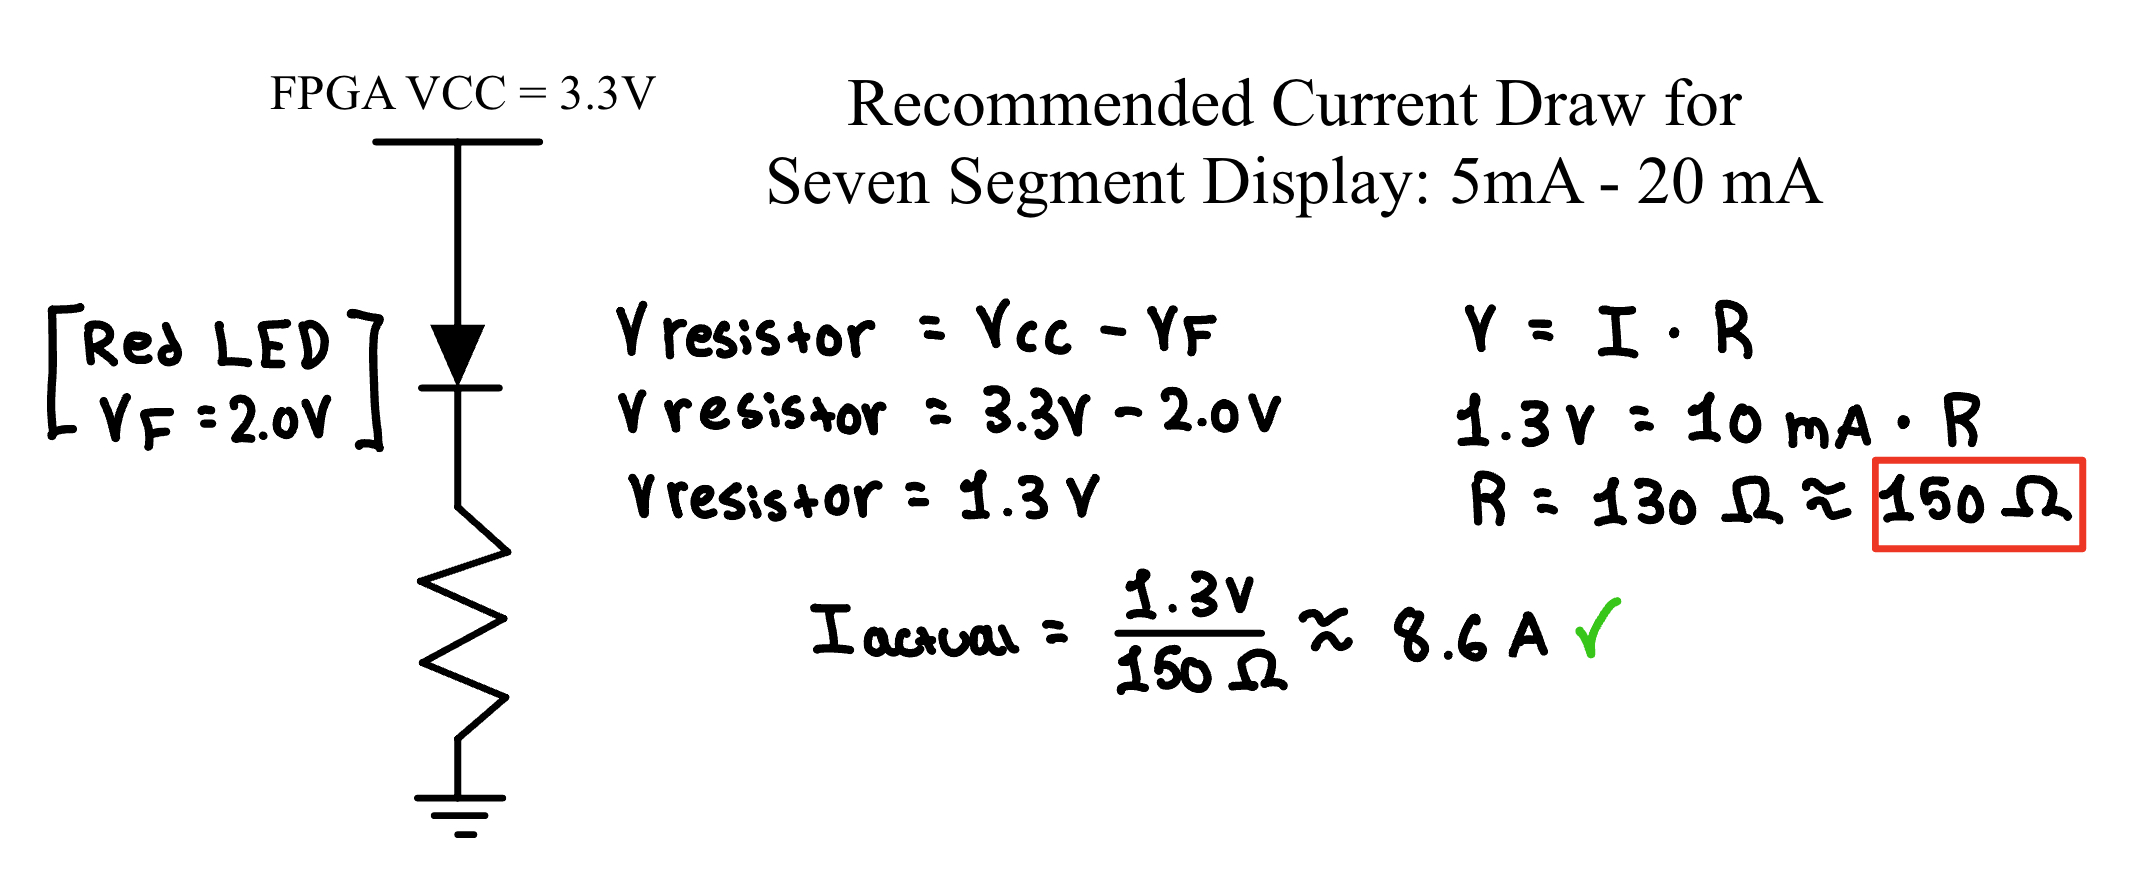
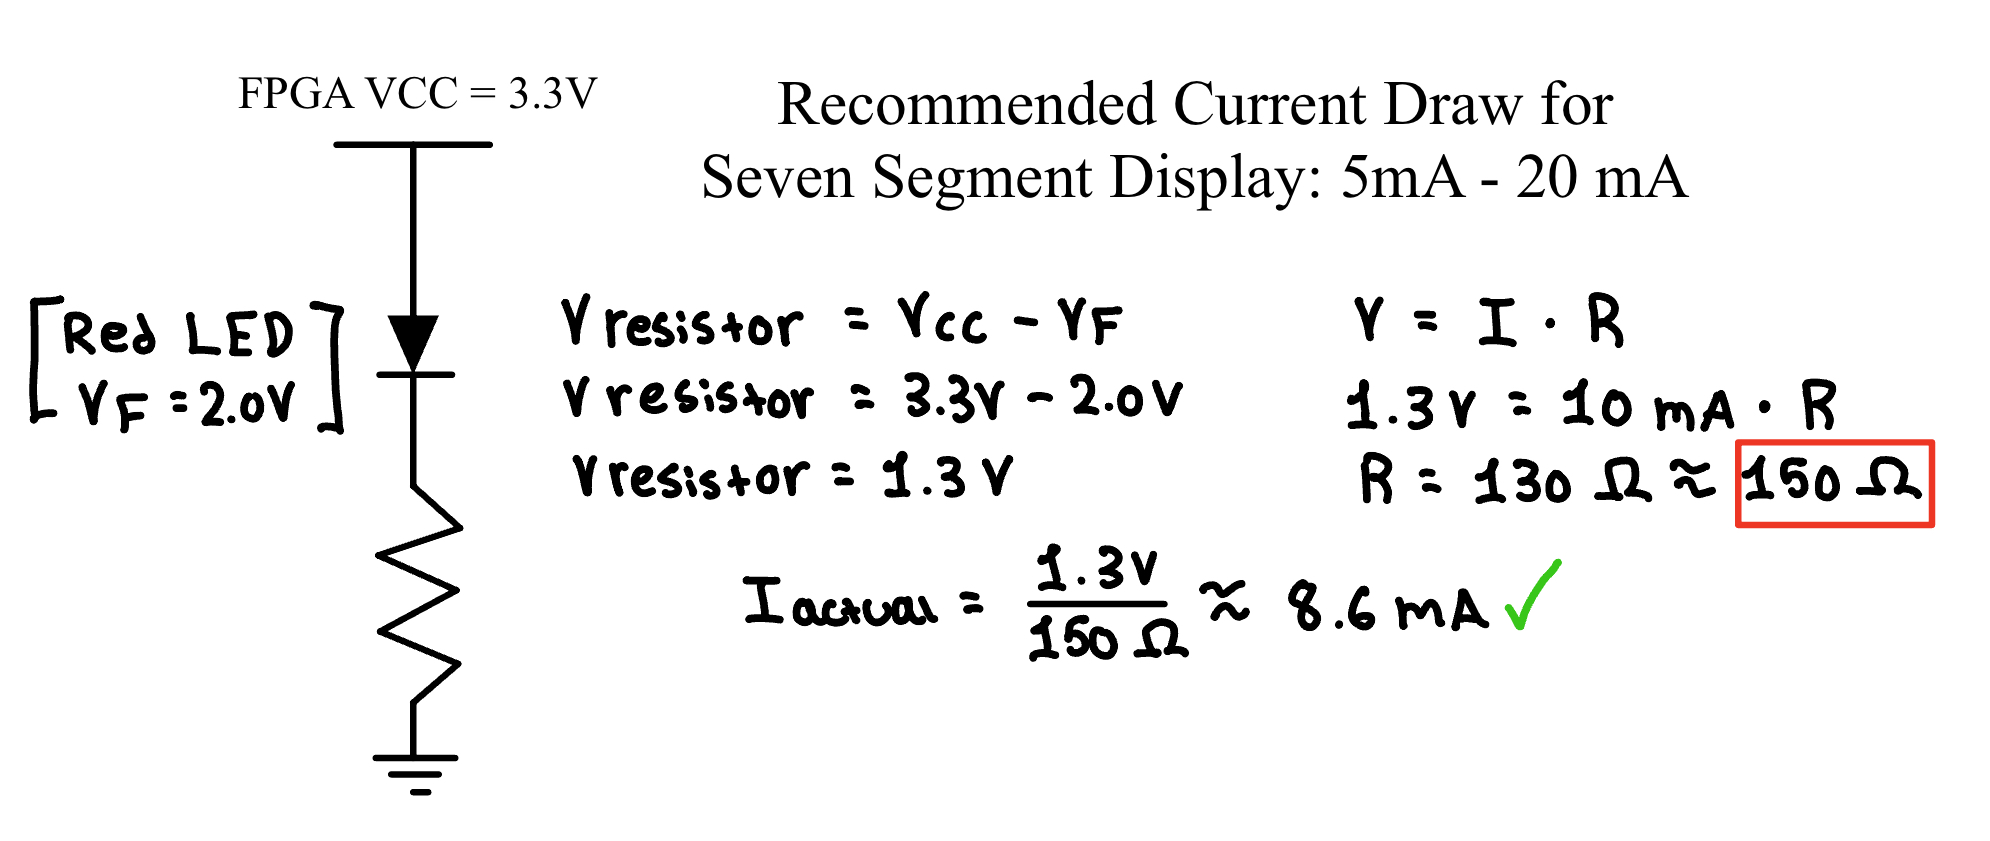
Built site for gh-pages

diff --git a/LAB1.html b/LAB1.html
@@ -153,7 +153,7 @@ ul.task-list li input[type="checkbox"] {
 <header id="title-block-header" class="quarto-title-block default">
 <div class="quarto-title">
 <h1 class="title">Lab 1: FPGA &amp; MCU Setup &amp; Testing</h1>
-<p class="subtitle lead">Ivan Jimenez Pineda | ijimenezpineda@g.hmc.edu | September 9, 2026</p>
+<p class="subtitle lead">Ivan Jimenez Pineda | ijimenezpineda@g.hmc.edu | September 14, 2026</p>
 </div>
 
 
@@ -292,7 +292,7 @@ ul.task-list li input[type="checkbox"] {
 <section id="led-implementation-clock-divider" class="level3">
 <h3 class="anchored" data-anchor-id="led-implementation-clock-divider">LED Implementation &amp; Clock Divider</h3>
 <p>By inspection of the truth tables, <code>led[0]</code> is driven by the XOR of inputs <code>s[0]</code> and <code>s[1]</code>, while <code>led[1]</code> is driven by the AND of inputs <code>s[2]</code> and <code>s[3]</code>. These were implemented using <code>assign</code> statements in the top module.</p>
-<p>To generate a blinking frequency of 2.4 Hz for <code>led[2]</code>, a sequential counter module was designed. The 48 MHz on-board HSOSC was first divided in half using the <code>CLKHF_DIV(2'b01)</code> parameter, producing a 24 MHz clock. A blink rate of 2.4 Hz requires the LED to complete a full ON-OFF cycle 2.4 times per second, meaning the signal must toggle its state 4.8 times per second. By dividing 24,000,000 Hz by 4.8, the we must toggle 5,000,000 clock cycles. A zero-indexed counter was implemented to trigger a toggle and reset upon reaching a max count of <code>4999999</code>.</p>
+<p>To generate a blinking frequency of 2.4 Hz for <code>led[2]</code>, a sequential counter module was designed. The 48 MHz on-board HSOSC was first divided in half using the <code>CLKHF_DIV(2'b01)</code> parameter, producing a 24 MHz clock. A blink rate of 2.4 Hz requires the LED to complete a full ON-OFF cycle 2.4 times per second, meaning the signal must toggle its state 4.8 times per second. By dividing 24,000,000 Hz by 4.8, we must toggle 5,000,000 clock cycles. A zero-indexed counter was implemented to trigger a toggle and reset upon reaching a max count of <code>4999999</code>.</p>
 </section>
 <section id="segment-display-implementation" class="level3">
 <h3 class="anchored" data-anchor-id="segment-display-implementation">7-Segment Display Implementation</h3>
@@ -303,22 +303,23 @@ ul.task-list li input[type="checkbox"] {
 <hr>
 </section>
 </section>
-<section id="results-discussion" class="level2">
-<h2 class="anchored" data-anchor-id="results-discussion">Results &amp; Discussion</h2>
+<section id="results" class="level2">
+<h2 class="anchored" data-anchor-id="results">Results</h2>
 <p>The design successfully accomplished all tasks. To verify the logic prior to programming the hardware, testbenches were written for every module and simulated in Questa Sim. The combinational testbench verified all 16 states of the 7-segment display, the sequential testbench confirmed the counter’s active-low reset and enable functions, and the testbench verified the integration of the modules. <em>Figure 5</em> confirms that the outputs perfectly matched expectations.</p>
-<p><img src="images/wavesim.jpg" class="img-fluid" alt="Questa Sim waveform confirming LED and active-low 7-segment logic."> <em>Figure 5: Questa Sim waveform confirming LED and active-low 7-segment logic.</em></p>
+<p><img src="images/waveforms_lab1.png" class="img-fluid" alt="Questa Sim waveform confirming LED and active-low 7-segment logic."> <em>Figure 5: Questa Sim waveform confirming LED and active-low 7-segment logic.</em></p>
 <hr>
 </section>
-<section id="conclusion-demo" class="level2">
-<h2 class="anchored" data-anchor-id="conclusion-demo">Conclusion &amp; Demo</h2>
-<p>All designs were successfully implemented on the FPGA. The simulations matched expectations, and the physical hardware behaved exactly as intended. The lab took a total of 26 hours to complete.</p>
+<section id="conclusion" class="level2">
+<h2 class="anchored" data-anchor-id="conclusion">Conclusion</h2>
+<p>All designs were successfully implemented on the FPGA. The simulations matched expectations, and the physical hardware behaved exactly as intended. The lab took a total of 32 hours to complete.</p>
 <p>Through this lab, hands-on practice was gained in assembling a development board, structuring SystemVerilog code, writing testbenches, and working with many hardware components.</p>
 <hr>
 </section>
 <section id="ai-reflection" class="level2">
 <h2 class="anchored" data-anchor-id="ai-reflection">AI Reflection</h2>
 <p>AI Prompt: Write SystemVerilog HDL to leverage the internal high speed oscillator in the Lattice UP5K FPGA and blink an LED at 2 Hz. Take full advantage of SystemVerilog syntax, for example, using logic instead of wire and reg.</p>
-<p>Initially, ChatGPT was not able to to produce synthasizable code</p>
+<p>The prompt was given to ChatGPT, and it created a good counter using systemverilog syntax. However, when the code was imported into Lattice Radiant and synthesized, it failed with the following error: Error ../source/impl_1/ai_proto.sv(15): instantiating unknown module SB_HFOSC. VERI-1063. When the error was fed back to ChatGPT, it was not able to correct it.</p>
+<p>Overall, I would rate the quality of ChatGPT’s output as a 5/10 because it did correctly calculate that a 48MHz clock required a 12,000,000 count to toggle twice a second for a 2Hz blink rate but it could not correct error messages from the synthesis.</p>
 
 
 </section>
